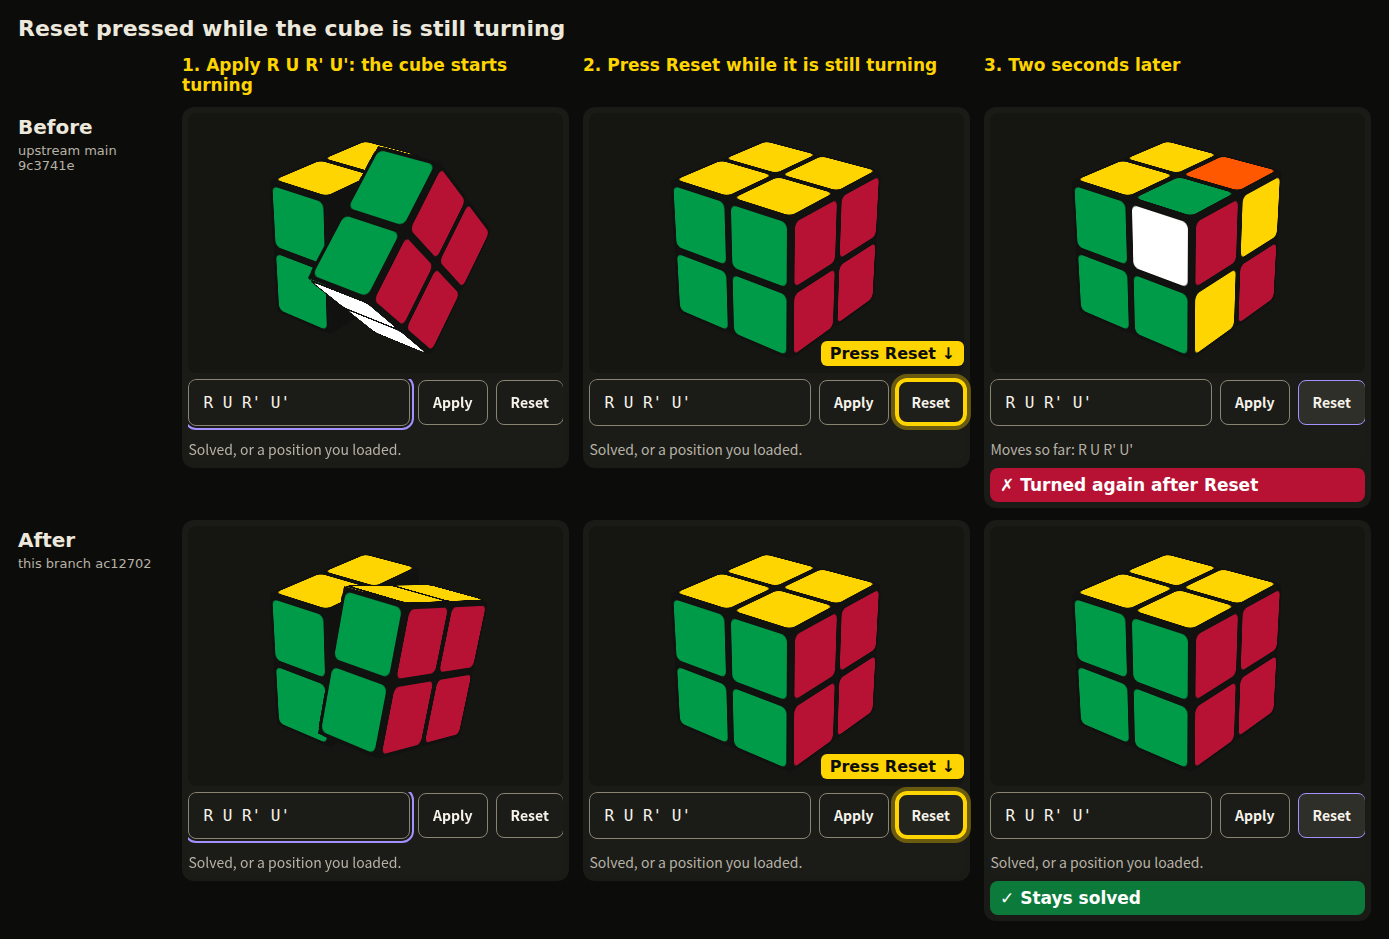
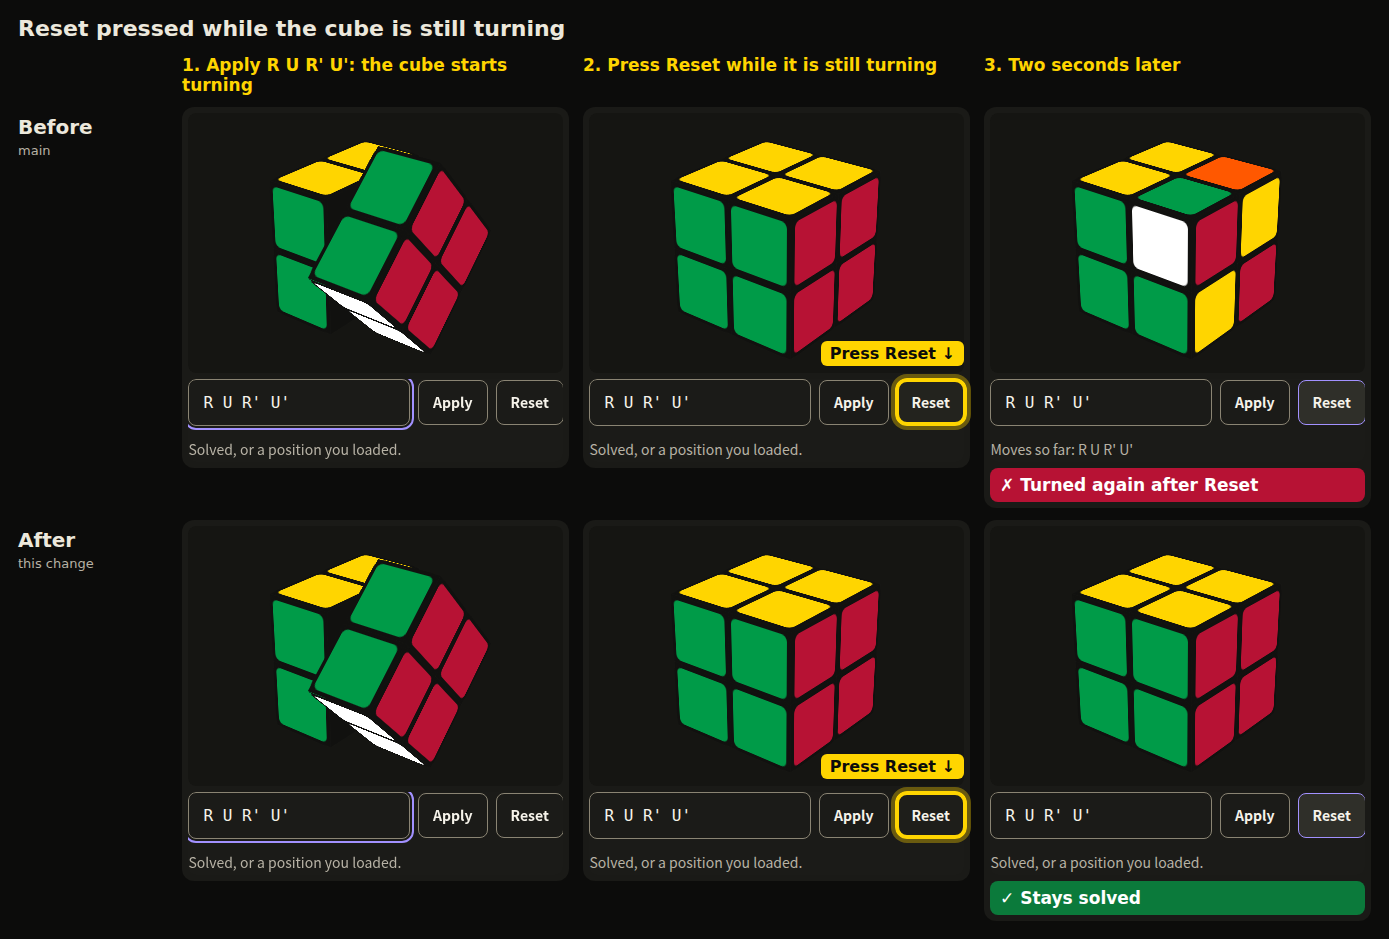
Retake the cube captures on the current main
Main moved to fdf3926 and the fix was rebased onto it, so take the
captures again on both, label the two sides by what they are rather
than by a commit that a rebase replaces, and add a main-only storyboard
for the issue report.

Changed region(s): [[0.2167, 0.5868, 0.3715, 0.8339], [0.0, 0.1544, 0.0929, 0.1853], [0.031, 0.5868, 0.0929, 0.6177]]

diff --git a/README.md b/README.md
@@ -1,18 +1,21 @@
 # Cube Reset and Show captures
 
-![Reset pressed while the cube is still turning. Step 1: Apply R U R' U', and the cube starts turning. Step 2: Reset is pressed while it is still turning, and both cubes show solved. Step 3, two seconds later: the cube before this change has turned again and reads "Moves so far: R U R' U'", while the cube after it stays solved](img/reset-storyboard.png)
+![Reset pressed while the cube is still turning, on main. Step 1: Apply R U R' U', and the cube starts turning. Step 2: Reset is pressed while it is still turning, and the cube shows solved. Step 3, two seconds later: the cube has turned again and reads "Moves so far: R U R' U'"](img/reset-issue.png)
+
+![Reset pressed while the cube is still turning, before and after this change. Step 3, two seconds later: the cube before the change has turned again and reads "Moves so far: R U R' U'", while the cube after it stays solved](img/reset-storyboard.png)
 
 ![The same Reset at a third of real speed](img/reset-slow.png)
 
 ![Show 21653471111312 pressed while the cube is still turning. Two seconds later the cube before this change ends on 12673452213311 with "Moves so far: R U R' U'", while the cube after it stays on 21653471111312](img/show-storyboard.png)
 
-The captures come from Chromium at a 1280x1000 window on 9c3741e (before) and
-ac12702 (after), in the task-workspace browser test harness with its stub task
-agent, camera and face detector and the cube explainer turned on. Each run
-types R U R' U', presses Apply, and clicks Reset or Show with the mouse 0.08 to
-0.15 s later, while the first turn is still swinging, then takes a screenshot
-every 50 to 100 ms for 2.3 s. Each cell is cut from those screenshots: the
-cube, the algorithm row and the history line, and for Show also the position
-code and the Show row. The step headings, the highlight on the pressed button
-and the verdicts are added by the script that lays the cells out; nothing on
-the page itself was changed. The animation is an APNG.
+The captures come from Chromium 156 at a 1280x1000 window on fdf3926 (main,
+before) and 66c07d8 (this change, after), in the task-workspace browser test
+harness with its stub task agent, camera and face detector and the cube
+explainer turned on. Each run types R U R' U', presses Apply, and clicks Reset
+or Show with the mouse 0.08 to 0.12 s later, while the first turn is still
+swinging, then takes a screenshot every 50 to 100 ms for 2.3 s. Each cell is
+cut from those screenshots: the cube, the algorithm row and the history line,
+and for Show also the position code and the Show row. The step headings, the
+highlight on the pressed button and the verdicts are added by the script that
+lays the cells out; nothing on the page itself was changed. The animation is an
+APNG.
